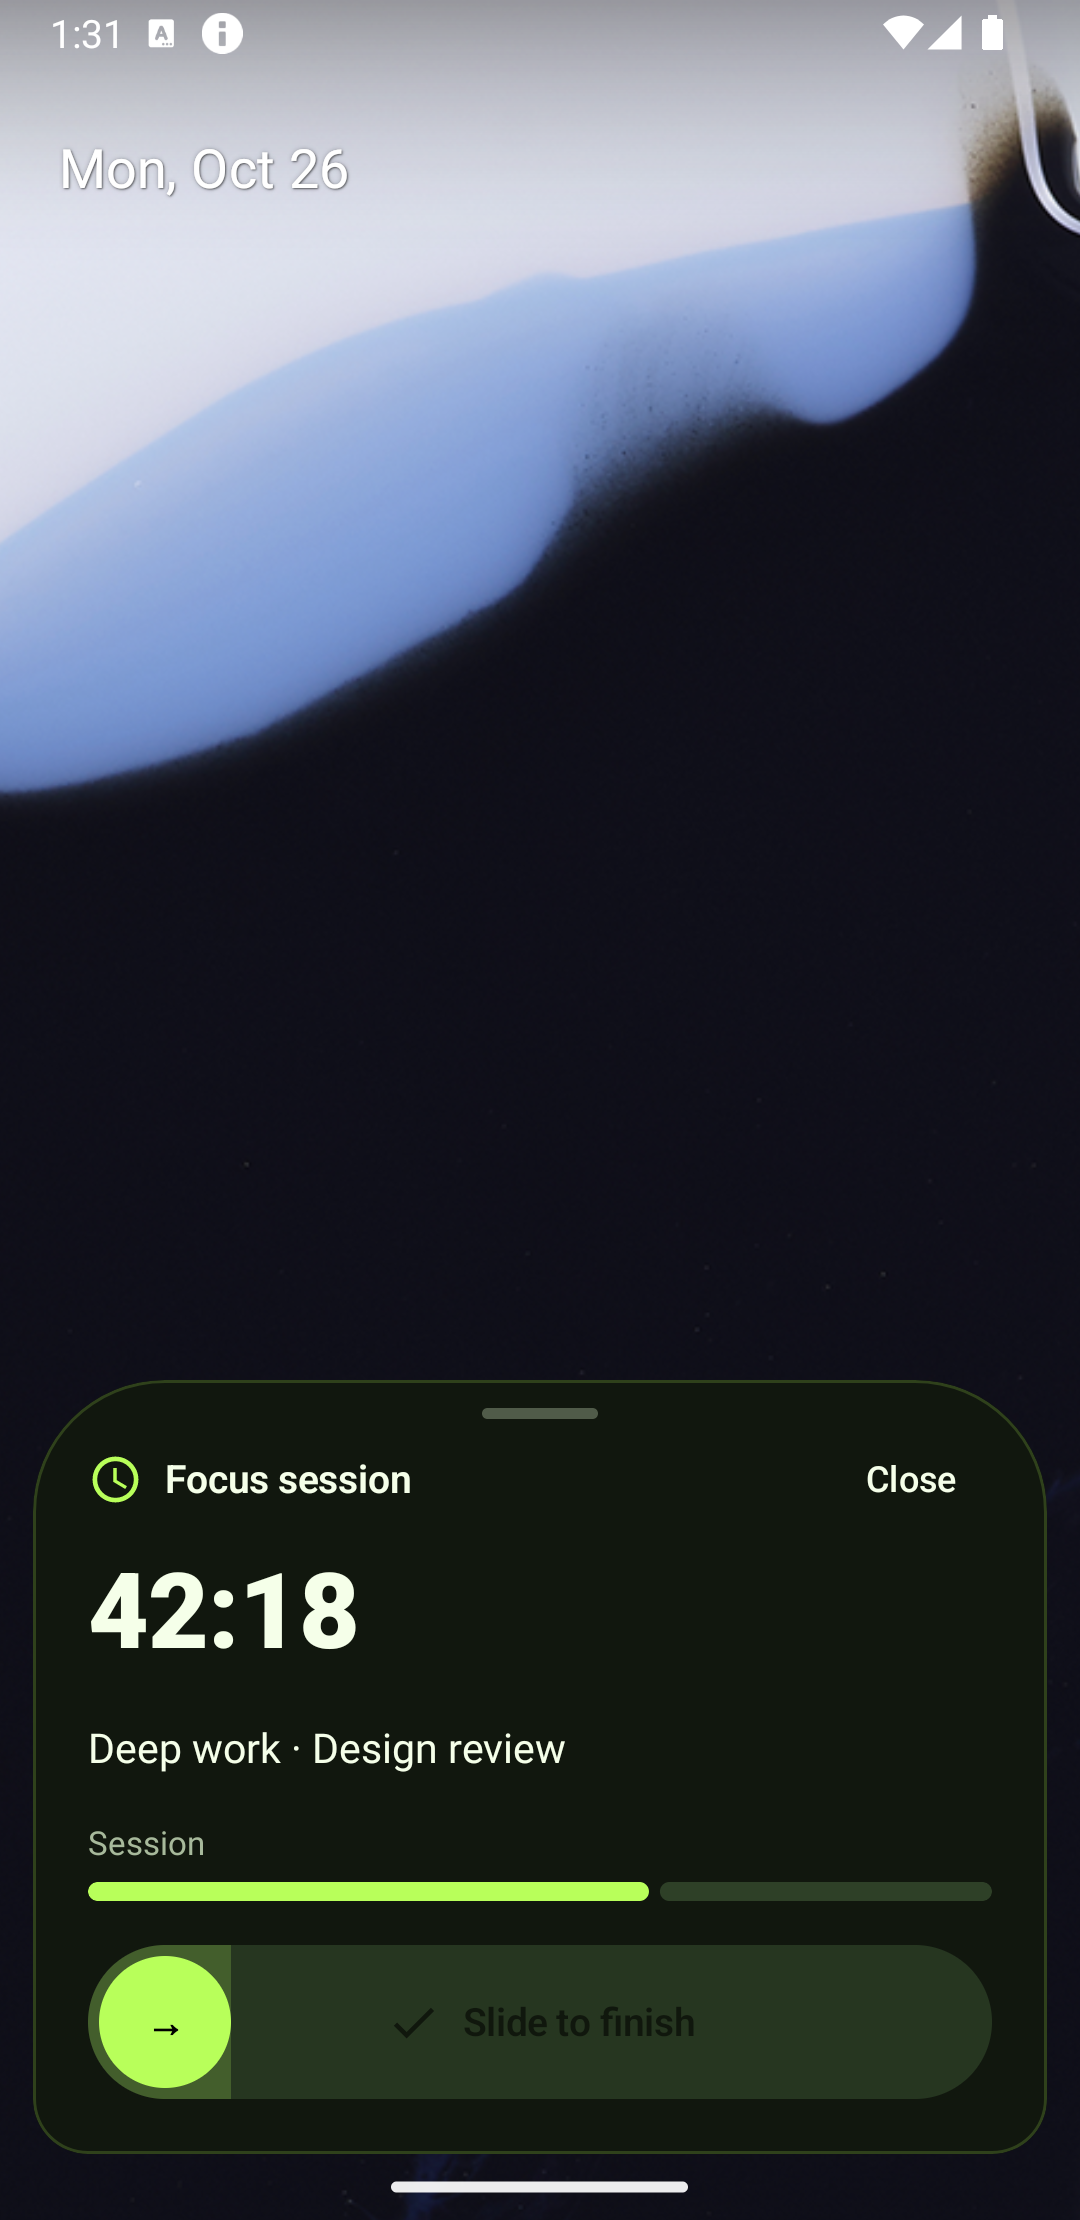
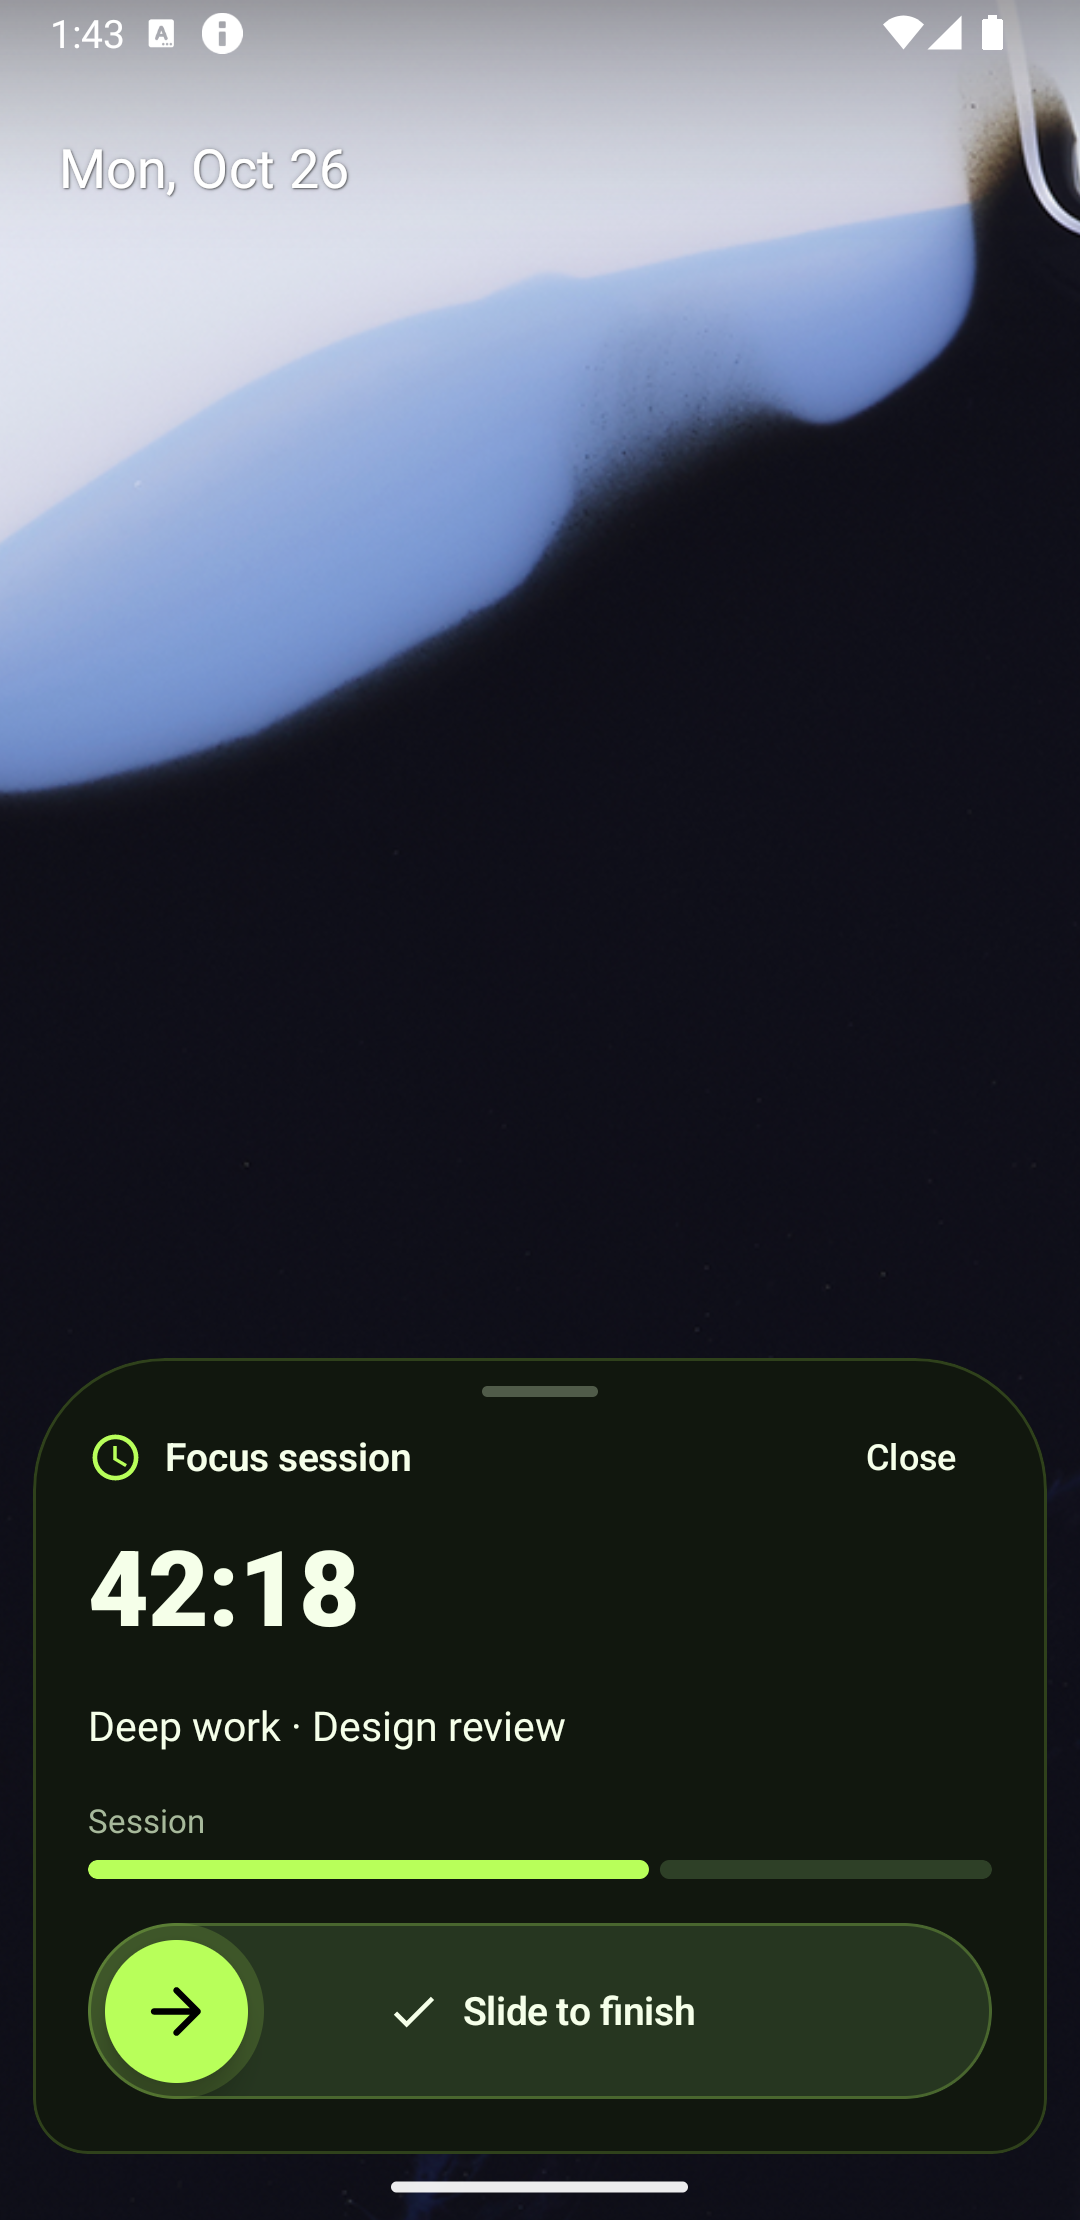
new screenshots

diff --git a/app/src/main/java/app/scouter/ui/ScouterRenderer.kt b/app/src/main/java/app/scouter/ui/ScouterRenderer.kt
@@ -11,9 +11,14 @@ import android.widget.MediaController
 import android.widget.VideoView
 import androidx.compose.animation.AnimatedVisibility
 import androidx.compose.animation.animateColorAsState
+import androidx.compose.animation.core.LinearEasing
 import androidx.compose.animation.core.MutableTransitionState
+import androidx.compose.animation.core.RepeatMode
 import androidx.compose.animation.core.Spring
 import androidx.compose.animation.core.animateFloatAsState
+import androidx.compose.animation.core.animateFloat
+import androidx.compose.animation.core.infiniteRepeatable
+import androidx.compose.animation.core.rememberInfiniteTransition
 import androidx.compose.animation.core.spring
 import androidx.compose.animation.core.tween
 import androidx.compose.animation.fadeIn
@@ -43,6 +48,7 @@ import androidx.compose.foundation.layout.padding
 import androidx.compose.foundation.layout.size
 import androidx.compose.foundation.layout.width
 import androidx.compose.foundation.rememberScrollState
+import androidx.compose.foundation.shape.CircleShape
 import androidx.compose.foundation.shape.RoundedCornerShape
 import androidx.compose.foundation.verticalScroll
 import androidx.compose.material3.Button
@@ -68,9 +74,13 @@ import androidx.compose.runtime.setValue
 import androidx.compose.ui.Alignment
 import androidx.compose.ui.Modifier
 import androidx.compose.ui.draw.clip
+import androidx.compose.ui.draw.shadow
+import androidx.compose.ui.geometry.Offset
+import androidx.compose.ui.graphics.Brush
 import androidx.compose.ui.graphics.Color
 import androidx.compose.ui.graphics.graphicsLayer
 import androidx.compose.ui.graphics.lerp
+import androidx.compose.ui.graphics.luminance
 import androidx.compose.ui.graphics.vector.ImageVector
 import androidx.compose.ui.layout.ContentScale
 import androidx.compose.ui.layout.onSizeChanged
@@ -82,6 +92,7 @@ import androidx.compose.ui.viewinterop.AndroidView
 import androidx.compose.ui.text.font.FontWeight
 import androidx.compose.ui.text.font.FontFamily
 import androidx.compose.ui.text.font.FontStyle
+import androidx.compose.ui.text.TextStyle
 import androidx.compose.ui.text.style.TextAlign
 import androidx.compose.ui.text.style.TextOverflow
 import androidx.compose.ui.text.style.TextDecoration
@@ -99,6 +110,7 @@ import app.scouter.model.UiStyle
 import app.scouter.model.UiNode
 import coil.compose.AsyncImage
 import androidx.compose.material.icons.Icons
+import androidx.compose.material.icons.automirrored.rounded.ArrowForward
 import androidx.compose.material.icons.filled.AccessTime
 import androidx.compose.material.icons.filled.Add
 import androidx.compose.material.icons.filled.ArrowBack
@@ -607,7 +619,9 @@ private fun NodeSlideAction(
     val context = LocalContext.current
     val scope = rememberCoroutineScope()
     val density = LocalDensity.current
-    val thumbWidthPx = with(density) { 52.dp.toPx() }
+    val trackHeight = 64.dp
+    val thumbSlotWidth = 64.dp
+    val thumbWidthPx = with(density) { thumbSlotWidth.toPx() }
     var widthPx by remember(node.id) { mutableFloatStateOf(0f) }
     var dragOffset by remember(node.id) { mutableFloatStateOf(0f) }
     var completed by remember(node.id) { mutableStateOf(false) }
@@ -617,14 +631,15 @@ private fun NodeSlideAction(
         animationSpec = tween(120),
         label = "slideOffset",
     )
-    val shape = node.style.radius.shapeOr(RoundedCornerShape(28.dp))
+    val shape = node.style.radius.shapeOr(CircleShape)
     val accent = node.color?.let(::color) ?: color(theme.accent)
     val track = node.trackColor?.let(::color) ?: color(theme.surface)
     Box(
         modifier = modifier
-            .then(if (node.style.height == null) Modifier.height(56.dp) else Modifier)
+            .then(if (node.style.height == null) Modifier.height(trackHeight) else Modifier)
             .clip(shape)
             .background(track)
+            .border(1.dp, accent.copy(alpha = .24f), shape)
             .graphicsLayer { alpha = if (node.enabled) 1f else .45f }
             .onSizeChanged {
                 widthPx = it.width.toFloat()
@@ -665,26 +680,57 @@ private fun NodeSlideAction(
                     if (widthPx == 0f) 0f
                     else ((renderedOffset + thumbWidthPx) / widthPx).coerceIn(0f, 1f),
                 )
-                .height(56.dp)
-                .background(accent.copy(alpha = .2f)),
+                .height(trackHeight)
+                .clip(
+                    RoundedCornerShape(
+                        topEnd = trackHeight / 2,
+                        bottomEnd = trackHeight / 2,
+                    ),
+                )
+                .background(accent.copy(alpha = .16f)),
         )
-        IconLabel(
-            text = if (completed) node.completedLabel ?: node.label else node.label,
-            icon = node.icon,
-            color = node.textColor?.let(::color) ?: color(theme.text),
-            fontWeight = FontWeight.SemiBold,
-        )
+        Box(
+            modifier = Modifier
+                .fillMaxWidth(),
+            contentAlignment = Alignment.Center,
+        ) {
+            if (completed) {
+                IconLabel(
+                    text = node.completedLabel ?: node.label,
+                    icon = node.icon,
+                    color = node.textColor?.let(::color) ?: color(theme.text),
+                    fontWeight = FontWeight.SemiBold,
+                )
+            } else {
+                ShimmerIconLabel(
+                    text = node.label,
+                    icon = node.icon,
+                    color = node.textColor?.let(::color) ?: color(theme.text),
+                )
+            }
+        }
         Box(
             modifier = Modifier
                 .align(Alignment.CenterStart)
                 .offset { IntOffset(renderedOffset.roundToInt(), 0) }
-                .padding(4.dp)
-                .size(48.dp)
-                .clip(RoundedCornerShape(24.dp))
-                .background(accent),
+                .size(thumbSlotWidth),
             contentAlignment = Alignment.Center,
         ) {
-            Text("→", color = Color.Black, fontWeight = FontWeight.Bold)
+            Box(
+                modifier = Modifier
+                    .size(52.dp)
+                    .shadow(6.dp, CircleShape)
+                    .clip(CircleShape)
+                    .background(accent),
+                contentAlignment = Alignment.Center,
+            ) {
+                Icon(
+                    imageVector = Icons.AutoMirrored.Rounded.ArrowForward,
+                    contentDescription = null,
+                    tint = if (accent.luminance() > .5f) Color.Black else Color.White,
+                    modifier = Modifier.size(28.dp),
+                )
+            }
         }
     }
 }
@@ -1003,6 +1049,56 @@ private fun String.boxAlignment(): Alignment = when (lowercase()) {
     "bottom", "bottomcenter", "bottom_center" -> Alignment.BottomCenter
     "bottomend", "bottom_end" -> Alignment.BottomEnd
     else -> Alignment.Center
+}
+
+@Composable
+private fun ShimmerIconLabel(
+    text: String,
+    icon: IconSpec?,
+    color: Color,
+) {
+    var widthPx by remember { mutableFloatStateOf(1f) }
+    val transition = rememberInfiniteTransition(label = "slideLabelShimmer")
+    val progress by transition.animateFloat(
+        initialValue = 0f,
+        targetValue = 1f,
+        animationSpec = infiniteRepeatable(
+            animation = tween(durationMillis = 1_650, easing = LinearEasing),
+            repeatMode = RepeatMode.Restart,
+        ),
+        label = "slideLabelShimmerProgress",
+    )
+    val center = widthPx * (-.35f + progress * 1.7f)
+    val halfBand = widthPx * .22f
+    val brush = Brush.linearGradient(
+        colors = listOf(
+            color.copy(alpha = .52f),
+            color,
+            color.copy(alpha = .52f),
+        ),
+        start = Offset(center - halfBand, 0f),
+        end = Offset(center + halfBand, 0f),
+    )
+    Row(
+        modifier = Modifier.onSizeChanged { widthPx = it.width.toFloat().coerceAtLeast(1f) },
+        verticalAlignment = Alignment.CenterVertically,
+    ) {
+        if (icon?.position == "start") {
+            UiIcon(icon, color)
+            Spacer(Modifier.width(icon.spacing.dp))
+        }
+        Text(
+            text = text,
+            style = TextStyle(
+                brush = brush,
+                fontWeight = FontWeight.SemiBold,
+            ),
+        )
+        if (icon?.position == "end") {
+            Spacer(Modifier.width(icon.spacing.dp))
+            UiIcon(icon, color)
+        }
+    }
 }
 
 @Composable
